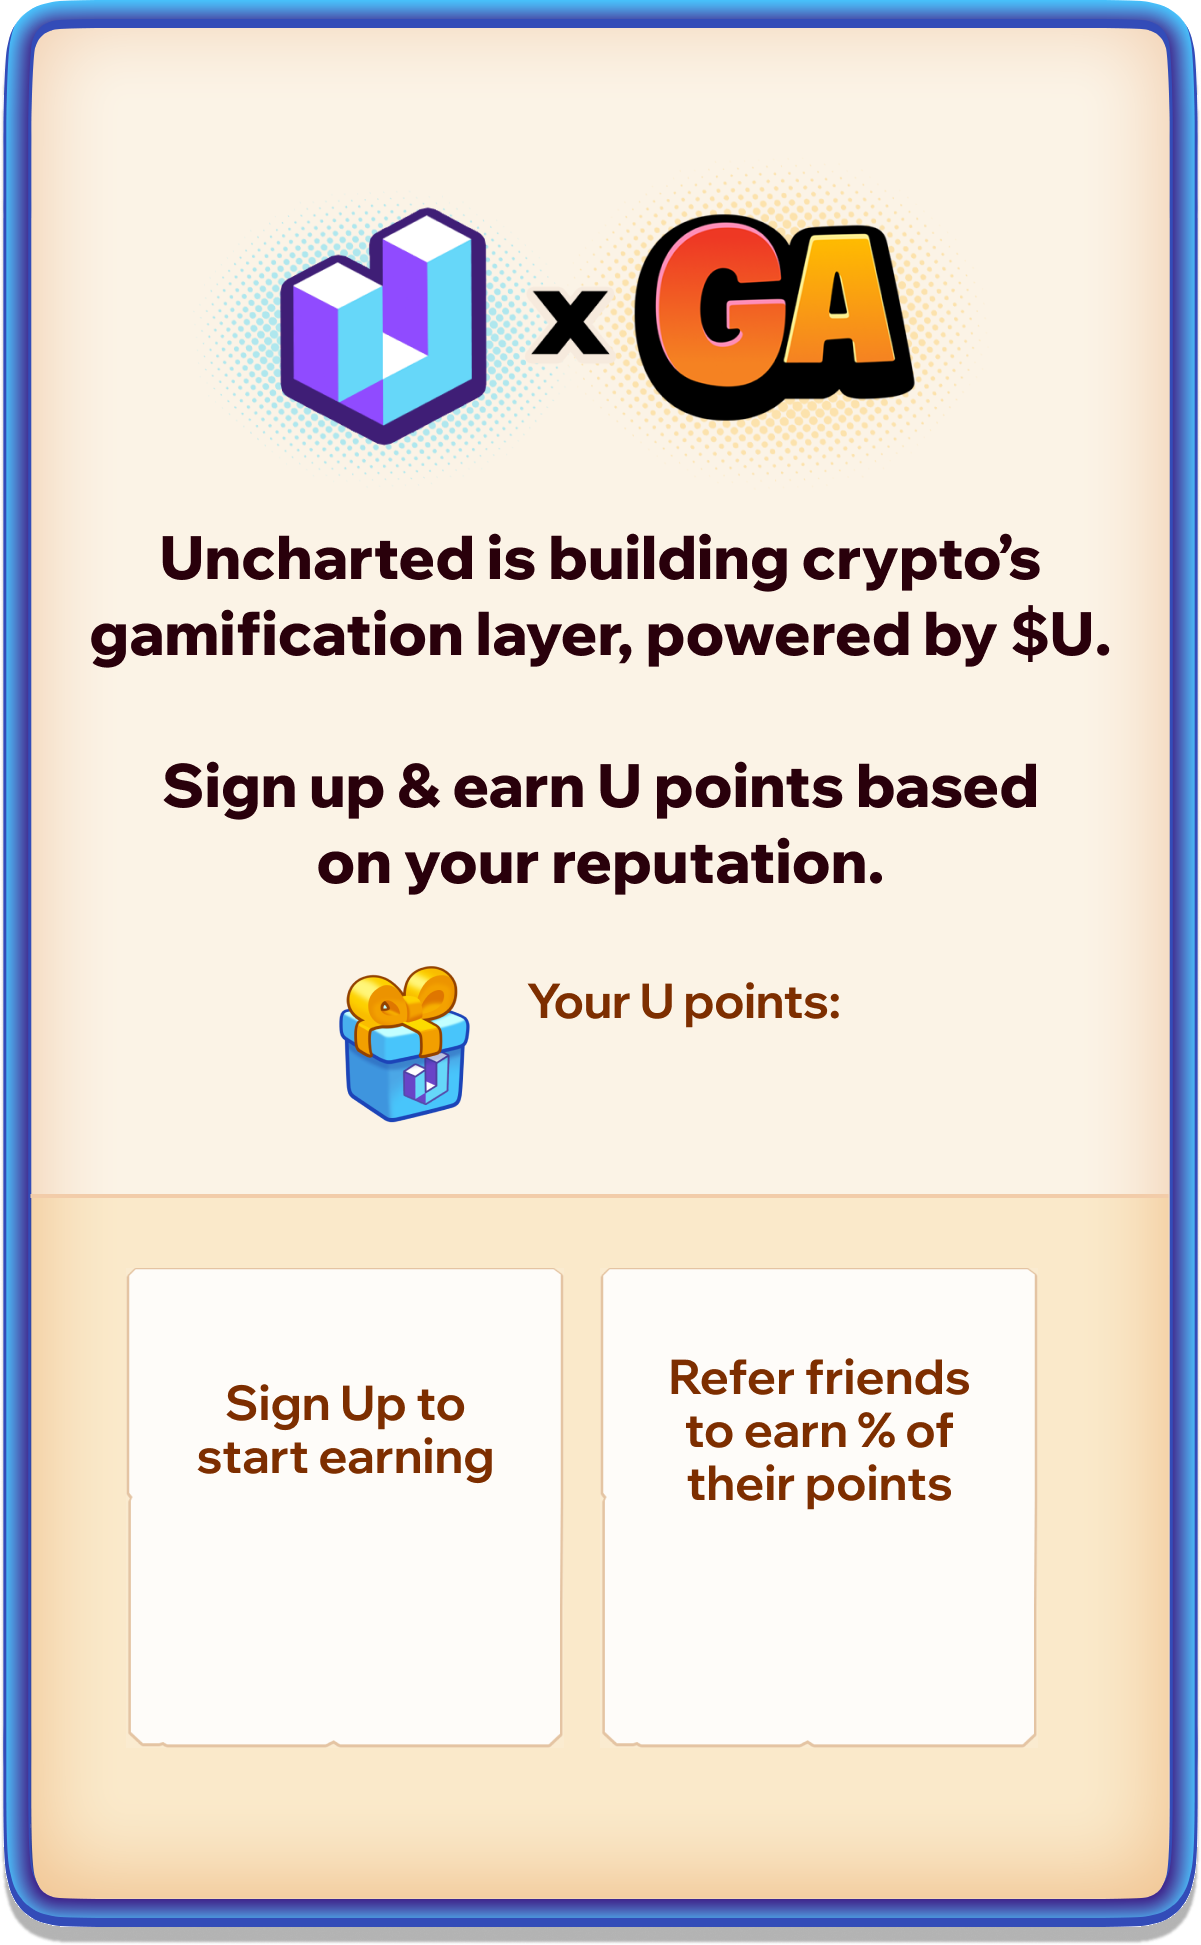
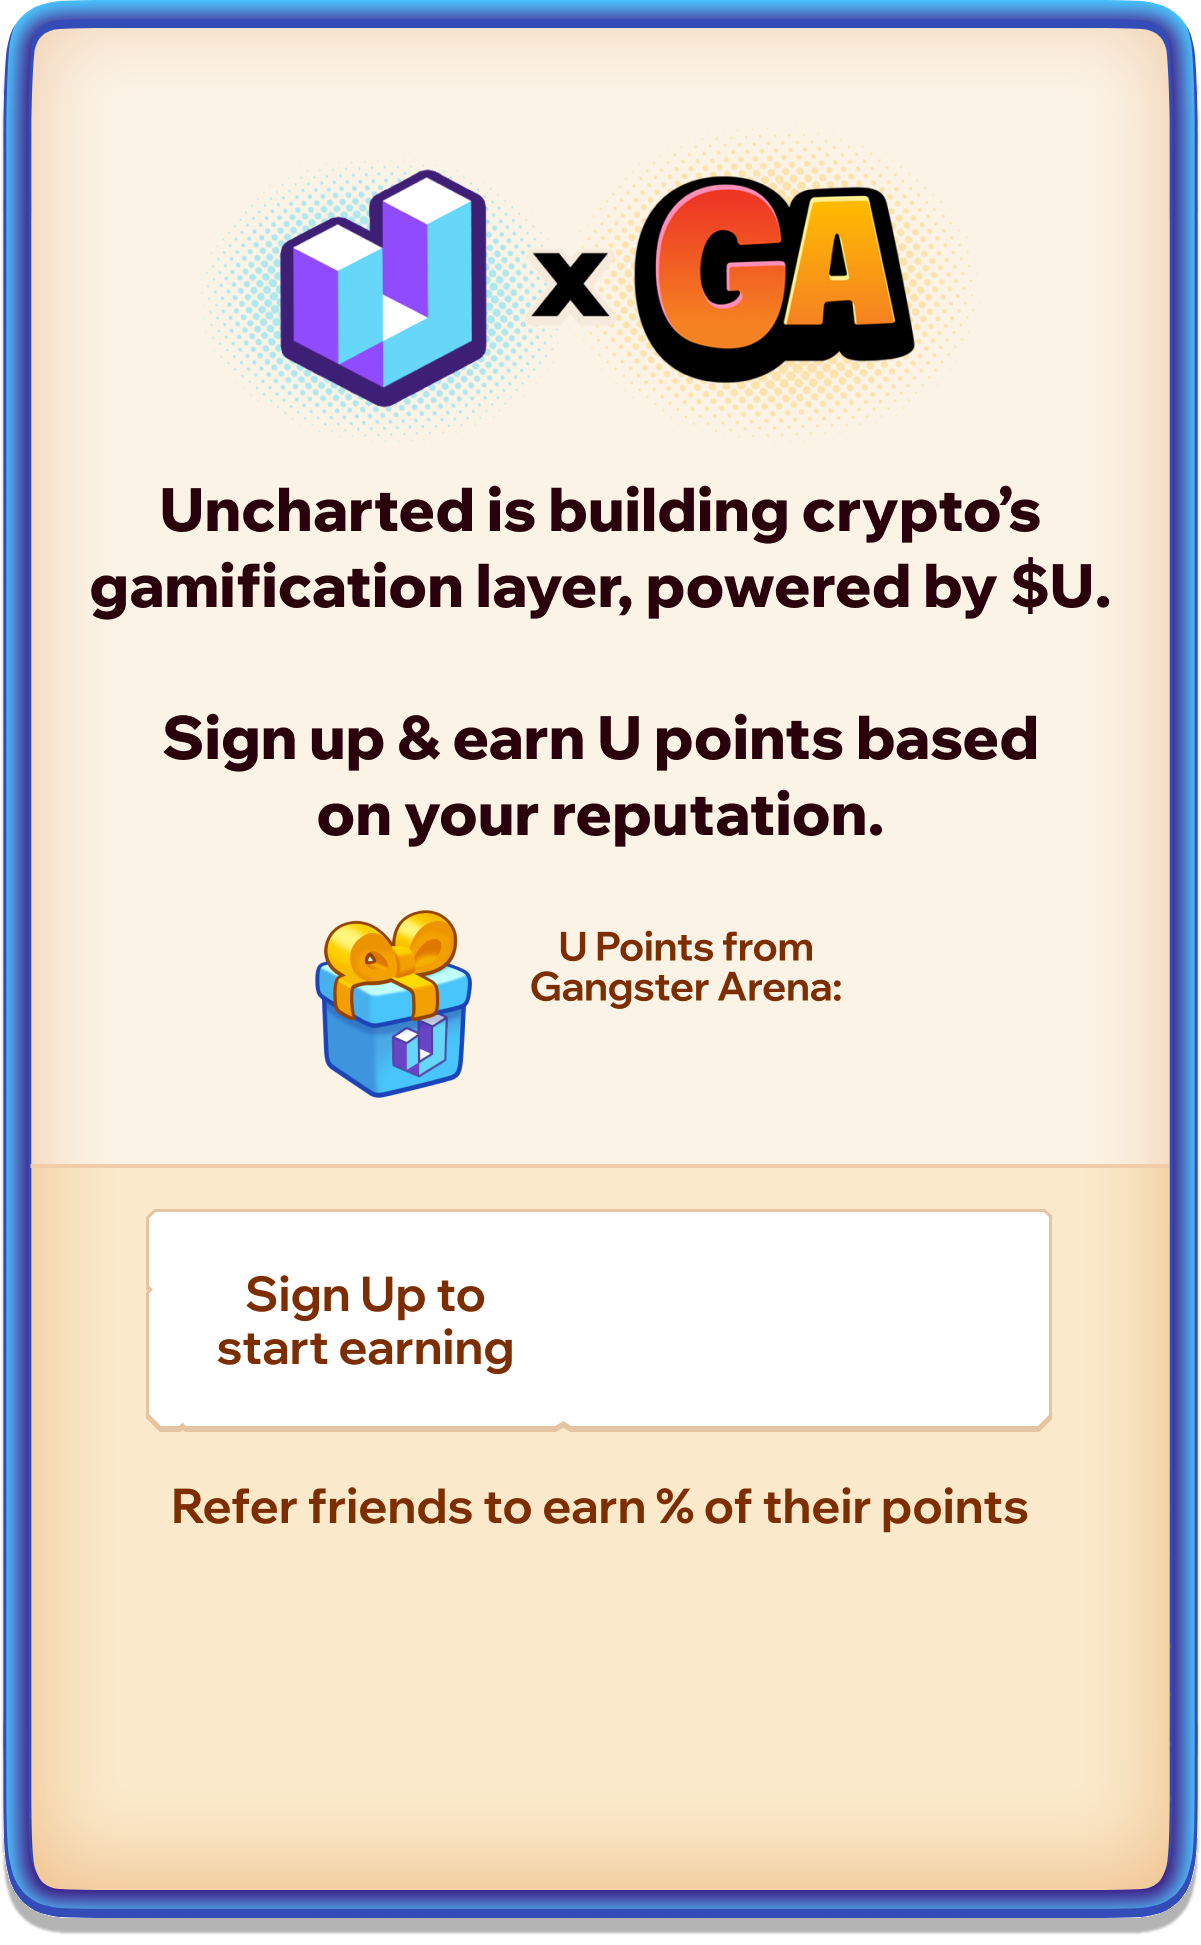
feat: update referral UI

diff --git a/app/src/pages/Game/components/popup/PopupReferralProgram.js b/app/src/pages/Game/components/popup/PopupReferralProgram.js
@@ -2,8 +2,12 @@ import Phaser from 'phaser';
 
 import Popup from './Popup';
 import Button from '../button/Button';
-import { colors, fontFamilies } from '../../../../utils/styles';
+import TextButton from '../button/TextButton';
+import configs from '../../configs/configs';
+import { colors, fontFamilies, fontSizes } from '../../../../utils/styles';
 import { formatter } from '../../../../utils/numbers';
+
+const { width } = configs;
 
 const signUpLink = 'https://www.uncharted.gg';
 const learnMoreLink =
@@ -30,43 +34,71 @@ class PopupReferralProgram extends Popup {
         : 'update-twitter-share-template',
     };
 
-    const btnY = this.popup.y + 670;
-    this.signupBtn = new Button(
-      scene,
-      this.popup.x - 255,
-      btnY,
-      'button-referral-sign-up',
-      'button-referral-sign-up-pressed',
-      () => {
-        window.open(signUpLink);
-      },
-      { sound: 'button-1' }
-    );
-    this.add(this.signupBtn);
-
-    this.shareBtn = new Button(
-      scene,
-      this.popup.x + 220,
-      btnY,
-      'button-x-share',
-      'button-x-share-pressed',
-      () => {
-        const text = this.template.replace('{referralCode}', this.referralCode.toUpperCase());
-        const intentUrl = getTwitterIntentUrl({ text });
-        window.open(intentUrl);
-      },
-      { sound: 'button-1' }
-    );
-    this.add(this.shareBtn);
+    const leftMargin = this.popup.x - this.popup.width / 2;
+    const uPointY = this.popup.y + 80;
+    const btnY = uPointY + 270;
+    const refCodeContainerY = btnY + 330;
 
     this.uPointText = scene.add
-      .text(this.popup.x + 80, this.popup.y + 95, '', {
+      .text(this.popup.x + 80, uPointY, '', {
         fontSize: '72px',
         fontFamily: fontFamilies.extraBold,
         color: colors.black,
       })
       .setOrigin(0.5, 0.5);
     this.add(this.uPointText);
+
+    this.signupBtn = new TextButton(
+      scene,
+      this.popup.x + 220,
+      btnY,
+      'button-blue-med-short',
+      'button-blue-med-short-pressed',
+      () => {
+        window.open(signUpLink);
+      },
+      'Sign Up',
+      { sound: 'button-1', fontSize: '56px' }
+    );
+    this.add(this.signupBtn);
+
+    this.refCodeContainer = scene.add.image(width / 2, refCodeContainerY, 'text-container');
+    this.add(this.refCodeContainer);
+
+    this.referralText = scene.add
+      .text(leftMargin + this.popup.width * 0.4, refCodeContainerY, '', {
+        fontSize: fontSizes.extraLarge,
+        color: colors.black,
+        fontFamily: fontFamilies.extraBold,
+      })
+      .setOrigin(0.5, 0.5);
+    this.add(this.referralText);
+    this.buttonCopy = new Button(
+      scene,
+      leftMargin + this.popup.width * 0.72,
+      refCodeContainerY,
+      'button-copy',
+      'button-copy-pressed',
+      () => navigator.clipboard.writeText(this.referralCode.toUpperCase()),
+      { sound: 'button-2' }
+    );
+    this.add(this.buttonCopy);
+    this.buttonTwitter = new Button(
+      scene,
+      leftMargin + this.popup.width * 0.85,
+      refCodeContainerY,
+      'button-twitter',
+      'button-twitter-pressed',
+      () => {
+        const text = this.template
+          .replace('{referralDiscount}', this.referralDiscount * 100)
+          .replace('{referralCode}', this.referralCode.toUpperCase());
+        const intentUrl = getTwitterIntentUrl({ text });
+        window.open(intentUrl);
+      },
+      { sound: 'button-2' }
+    );
+    this.add(this.buttonTwitter);
 
     const learnMoreText = scene.add
       .text(this.popup.x, this.popup.y + this.popup.height / 2 - 135, 'Learn more', {
@@ -93,6 +125,7 @@ class PopupReferralProgram extends Popup {
     scene.game.events.on(this.events.updateTwitterShareTemplate, ({ template, referralCode }) => {
       this.template = template;
       this.referralCode = referralCode;
+      this.referralText.text = referralCode?.toUpperCase();
       console.log('update-twitter-share-template', { template, referralCode });
     });
 

diff --git a/app/src/pages/Game/scenes/LoadingScene.js b/app/src/pages/Game/scenes/LoadingScene.js
@@ -198,6 +198,8 @@ class LoadingScene extends Phaser.Scene {
     this.load.image('button-disabled', '/images/button-disabled.png');
     this.load.image('button-blue-mini', '/images/button-blue-mini.png');
     this.load.image('button-blue-mini-pressed', '/images/button-blue-mini-pressed.png');
+    this.load.image('button-blue-med-short', '/images/button-blue-med-short.png');
+    this.load.image('button-blue-med-short-pressed', '/images/button-blue-med-short-pressed.png');
     this.load.image('button-blue-med', '/images/button-blue-med.png');
     this.load.image('button-blue-med-pressed', '/images/button-blue-med-pressed.png');
     this.load.image('button-blue-med-outlined', '/images/button-blue-med-outlined.png');
@@ -275,8 +277,6 @@ class LoadingScene extends Phaser.Scene {
     this.load.image('button-green-full-length', '/images/button-green-full-length.png');
     this.load.image('button-green-full-length-pressed', '/images/button-green-full-length-pressed.png');
     this.load.image('button-green-full-length-disabled', '/images/button-green-full-length-disabled.png');
-    this.load.image('button-referral-sign-up', '/images/button-referral-sign-up.png');
-    this.load.image('button-referral-sign-up-pressed', '/images/button-referral-sign-up-pressed.png');
     this.load.image('button-x-share', '/images/button-x-share.png');
     this.load.image('button-x-share-pressed', '/images/button-x-share-pressed.png');
     this.load.image('button-buy-safehouse', '/images/button-buy-safehouse.png');

diff --git a/app/src/pages/Game/components/button/TextButton.js b/app/src/pages/Game/components/button/TextButton.js
@@ -38,6 +38,7 @@ class TextButton extends Button {
       case 'button-blue-mini':
       case 'button-blue-small':
       case 'button-blue-med':
+      case 'button-blue-med-short':
       case 'button-blue-long':
         textStrokeColor = '#0004a0';
         break;
